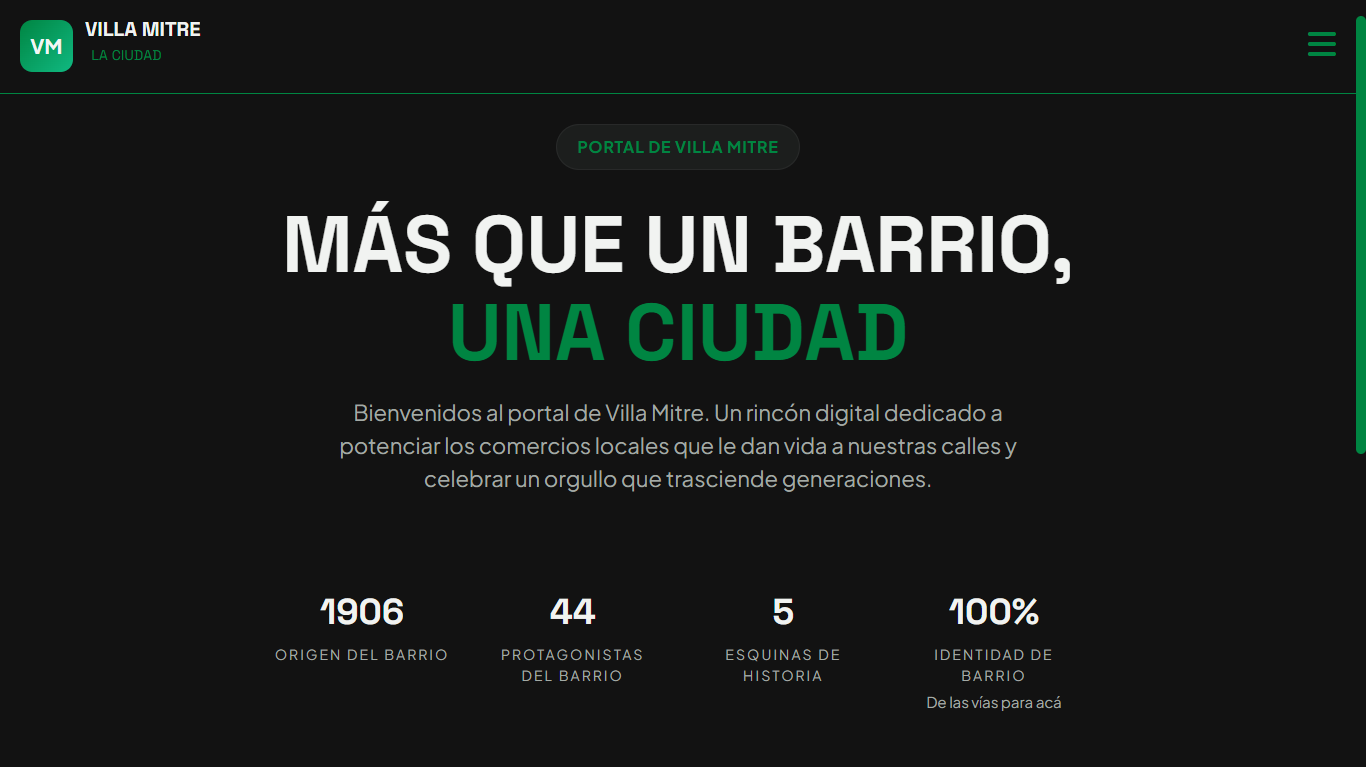
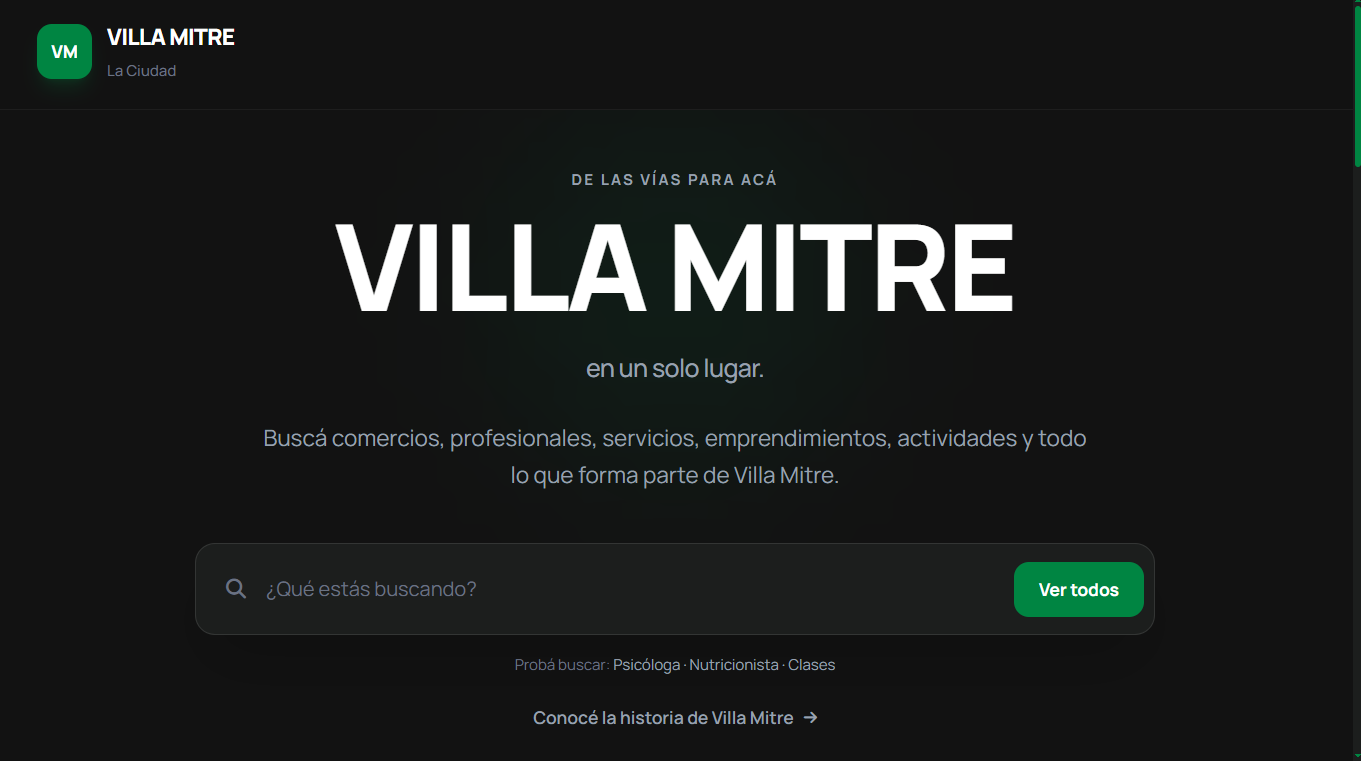
remodelado

diff --git a/index.html b/index.html
@@ -8,8 +8,10 @@
   
   <link rel="preconnect" href="https://fonts.googleapis.com">
   <link rel="preconnect" href="https://fonts.gstatic.com" crossorigin>
-  <link href="https://fonts.googleapis.com/css2?family=Cormorant+Garamond:wght@400;500;600;700&family=Inter:wght@300;400;500;600;700&display=swap" rel="stylesheet">
   
+  <link rel="stylesheet" href="https://cdnjs.cloudflare.com/ajax/libs/font-awesome/6.7.2/css/all.min.css">
+  <link href="https://fonts.googleapis.com/css2?family=Cormorant+Garamond:wght@400;500;600;700&family=Inter:wght@300;400;500;600;700&display=swap" rel="stylesheet">
+  <link rel="stylesheet" href="https://cdnjs.cloudflare.com/ajax/libs/font-awesome/6.7.2/css/all.min.css">
   <meta name="description"content="Portfolio de Magdalena Daniela Ayude, desarrolladora Frontend. Desarrollo sitios y experiencias web funcionales, responsive y visualmente atractivas.">
   <meta name="keywords"content="Frontend Developer, Desarrollo Web, Portfolio, HTML, CSS, JavaScript, Firebase, Diseño Web, Magdalena Ayude">
   <meta name="author" content="Magdalena Daniela Ayude">  
@@ -18,12 +20,18 @@
   <meta property="og:description" content="Portfolio de Magdalena Daniela Ayude, desarrolladora frontend especializada en crear experiencias digitales modernas y accesibles.">
   <meta property="og:image" content="https://magdalenadanielaayude.netlify.app/">  
   <meta property="og:url" content="https://magdalenadanielaayude.netlify.app/">
+ 
+
+
 </head>
 
 <body>
 
   <header class="header">
     <nav class="navbar">
+    <button class="menu-toggle" aria-label="Abrir menú">
+    <i class="fa-solid fa-bars"></i>
+  </button>
       <ul class="nav-links">
         <li><a href="#about">Sobre mí</a></li>
         <li><a href="#stack">Stack</a></li>
@@ -79,13 +87,18 @@
           <h3>JavaScript</h3>
           <p>Implementación de funcionalidades, interacciones y experiencias dinámicas mediante manipulación del DOM y gestión de eventos.</p>
         </article>
+
+        <article class="stack-card">
+        <h3>Tailwind CSS</h3>
+        <p>Construcción y personalización de interfaces mediante clases de utilidad para agilizar el desarrollo y mantener diseños consistentes.</p>
+        </article>
         
-      <article class="stack-card"> 
-      <h3>Firebase</h3> 
-      <p>Integración de bases de datos y servicios para incorporar funcionalidades dinámicas en aplicaciones web.</p> 
-      </article> 
-      </div> 
-      </section>
+        <article class="stack-card"> 
+        <h3>Firebase</h3> 
+        <p>Integración de bases de datos y servicios para incorporar funcionalidades dinámicas en aplicaciones web.</p> 
+        </article> 
+        </div> 
+        </section>
 
    <section id="projects" class="section-layout projects">
 
@@ -105,20 +118,30 @@
         <span class="project-number">PROYECTO 01</span>
 
         <h3>Villa Mitre</h3>
-        <p>Plataforma web desarrollada para visibilizar todo lo que se puede encontrar en Villa Mitre: comercios, profesionales, emprendimientos, actividades, servicios y propuestas del barrio. El proyecto reúne esta información en un mismo espacio digital, facilitando el descubrimiento y el acceso a opciones locales. Cuenta con una interfaz responsive, funcionalidades de contacto y navegación, y medición de interacciones mediante Google Analytics.</p>
-        
+        <p>Plataforma web Villa Mitre, que centraliza la oferta local mediante un buscador global para descubrir comercios, profesionales, servicios, emprendimientos y actividades en un solo lugar. Implementé una interfaz responsive, búsqueda dinámica, funcionalidades de contacto y seguimiento de interacciones con Google Analytics.</p>
         <ul class="project-features">
-          <li>Responsive</li>
-          <li>Google Analytics</li>
           <li>JavaScript</li>
+          <li>Tailwind CSS</li>
+          <li>Google Analytics</li>
         </ul>
 
         <a href="https://comercios-villamitre.netlify.app/"
            target="_blank"
            rel="noopener noreferrer"
            class="btn-link">
-          Visitar sitio →
+          Visitar sitio 
         </a>
+      
+
+      <a href="https://github.com/MagdalenaAyude/portal-comercios-villa-mitre"
+    target="_blank"
+    rel="noopener noreferrer"
+    class="project-github"
+    aria-label="Ver código de Villa Mitre en GitHub">
+
+    <i class="fa-brands fa-github" aria-hidden="true"></i>
+    Ver código
+    </a>
       </div>
 
     </article>
@@ -138,8 +161,18 @@
               <li>UX/UI</li>
               <li>JavaScript</li>
             </ul>
-            <a href="https://turnosbahia2026.netlify.app/" target="_blank" rel="noopener noreferrer" class="btn-link">Visitar sitio →</a>
-          </div>
+            <a href="https://turnosbahia2026.netlify.app/" target="_blank" rel="noopener noreferrer" class="btn-link">Visitar sitio</a>
+          
+          <a href="https://github.com/MagdalenaAyude/TurnosB"
+            target="_blank"
+            rel="noopener noreferrer"
+            class="project-github"
+          aria-label="Ver código de turnos ya en GitHub">
+
+        <i class="fa-brands fa-github" aria-hidden="true"></i>
+        Ver código
+        </a>
+      </div>
         </article>
 
         <article class="project">
@@ -156,7 +189,17 @@
             <li>JavaScript</li>
             <li>Responsive</li>
             </ul>
-            <a href="https://raw-strength-bahia.netlify.app/" target="_blank" rel="noopener noreferrer" class="btn-link">Visitar sitio →</a>
+            <a href="https://raw-strength-bahia.netlify.app/" target="_blank" rel="noopener noreferrer" class="btn-link">Visitar sitio</a>
+          
+          <a href="https://github.com/MagdalenaAyude/raw-strength"
+        target="_blank"
+        rel="noopener noreferrer"
+        class="project-github"
+        aria-label="Ver código de Raw M.A.S en GitHub">
+
+      <i class="fa-brands fa-github" aria-hidden="true"></i>
+      Ver código
+      </a>
           </div>
         </article>
 
@@ -175,8 +218,17 @@
               <li>Carrito dinámico</li>
               <li>Pedidos por WhatsApp</li>
             </ul>
-            <a href="https://flordesol-magdalena.netlify.app/" target="_blank" rel="noopener noreferrer" class="btn-link">Visitar sitio →</a>
-          </div>
+            <a href="https://flordesol-magdalena.netlify.app/" target="_blank" rel="noopener noreferrer" class="btn-link">Visitar sitio </a>
+          
+        <a href="https://github.com/MagdalenaAyude/flor-de-sol"
+        target="_blank"
+        rel="noopener noreferrer"
+        class="project-github"
+        aria-label="Ver código de flor de sol en GitHub">
+
+        <i class="fa-brands fa-github" aria-hidden="true"></i>
+      Ver código
+      </a>
         </article>
       </div>
     </section>
@@ -203,6 +255,11 @@
           <img src="./assets/linkedin.png" alt="Icono de LinkedIn">
           <span>LinkedIn</span>
         </a>
+
+        <a href="https://github.com/MagdalenaAyude" target="_blank" class="contact-button" rel="noopener noreferrer">
+          <img src="./assets/github.png" alt="Icono de GitHub">
+          <span>GitHub</span>
+        </a>
       </div>
     </section>
   </main>
@@ -210,6 +267,7 @@
   <footer class="footer">
     <small>© 2026 Magdalena Daniela Ayude · Frontend Developer</small>
   </footer>
-
+  <script src="script.js"></script>
+ 
 </body>
 </html>

diff --git a/style.css b/style.css
@@ -63,6 +63,17 @@ body{
   color: var(--text);   
   border-bottom: 1px solid var(--text); 
 }
+
+.menu-toggle {
+  display: none;
+  border: none;
+  background: transparent;
+  color: var(--text);
+  font-size: 28px;
+  cursor: pointer;
+}
+
+
 .hero{
   display:flex;
   flex-direction:column;
@@ -218,6 +229,7 @@ body{
  display: flex;
  flex-direction: column;
  justify-content: center;
+ gap: 20px;
 }
 .project-content h3 {
   font-family: 'Cormorant Garamond', serif;
@@ -246,19 +258,29 @@ body{
   border: 1px solid var(--border);
   border-radius: 20px;
 }
-.project .btn-link {
+.project .btn-link,
+.project .project-github {
+  font-size: 0.95rem;
   text-decoration: none;
   color: var(--text);
   background-color: transparent;
   font-weight: 500;
-  border-bottom: 1px solid var(--accent);
+ 
   padding-bottom: 4px;
   transition: background-color 0.3s ease, color 0.3s ease;
 }
-.project .btn-link:hover {
+.project .btn-link:hover,
+.project .project-github:hover {
   color: var(--accent);
   border-color: var(--accent);
 }
+
+.project-github:hover {
+  color: var(--accent);
+  border-color: var(--accent);
+}
+
+
 .contact {
   background-color: var(--surface);
   border: 1px solid var(--border);
@@ -320,15 +342,53 @@ footer{
   margin: 0 auto;
 }
 
-@media (max-width: 768px) {
-  
+
+ @media (max-width: 768px) {
+
   .header {
     padding: 20px;
-    justify-content: center;
   }
+  
+  .menu-toggle {
+    display: block;
+    margin-left: auto;
+  }
+
+
+  .navbar {
+    display: flex;
+    align-items: center;
+    justify-content: flex-end;
+    width: 100%;
+    position: relative;
+  }
+
+  .menu-toggle {
+    display: block;
+    margin-left: auto;
+    width: 34px;
+  }
+
   .nav-links {
+    display: none;
+    position: absolute;
+    top: calc(100% + 12px);
+    right: 0;
+    flex-direction: column;
+    align-items: flex-start;
     gap: 15px;
+    margin: 0;
+    padding: 20px;
+    background: var(--bg);
+    border-radius: 12px;
+    z-index: 1000;
   }
+
+  .nav-links.active {
+    display: flex;
+  }
+
+
   .hero {
     padding: 80px 20px;
   }

diff --git a/script.js b/script.js
@@ -1,0 +1,6 @@
+const menuToggle = document.querySelector(".menu-toggle");
+const navLinks = document.querySelector(".nav-links");
+
+menuToggle.addEventListener("click", () => {
+  navLinks.classList.toggle("active");
+});
